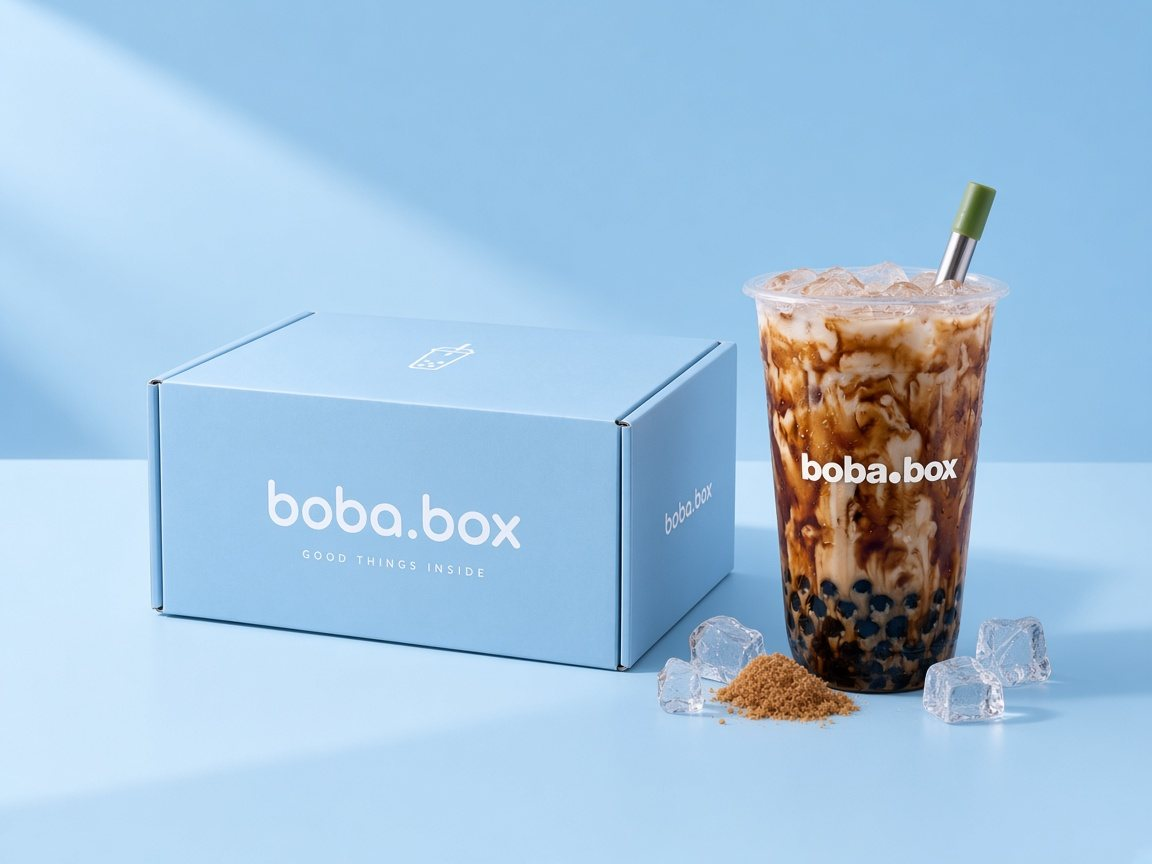
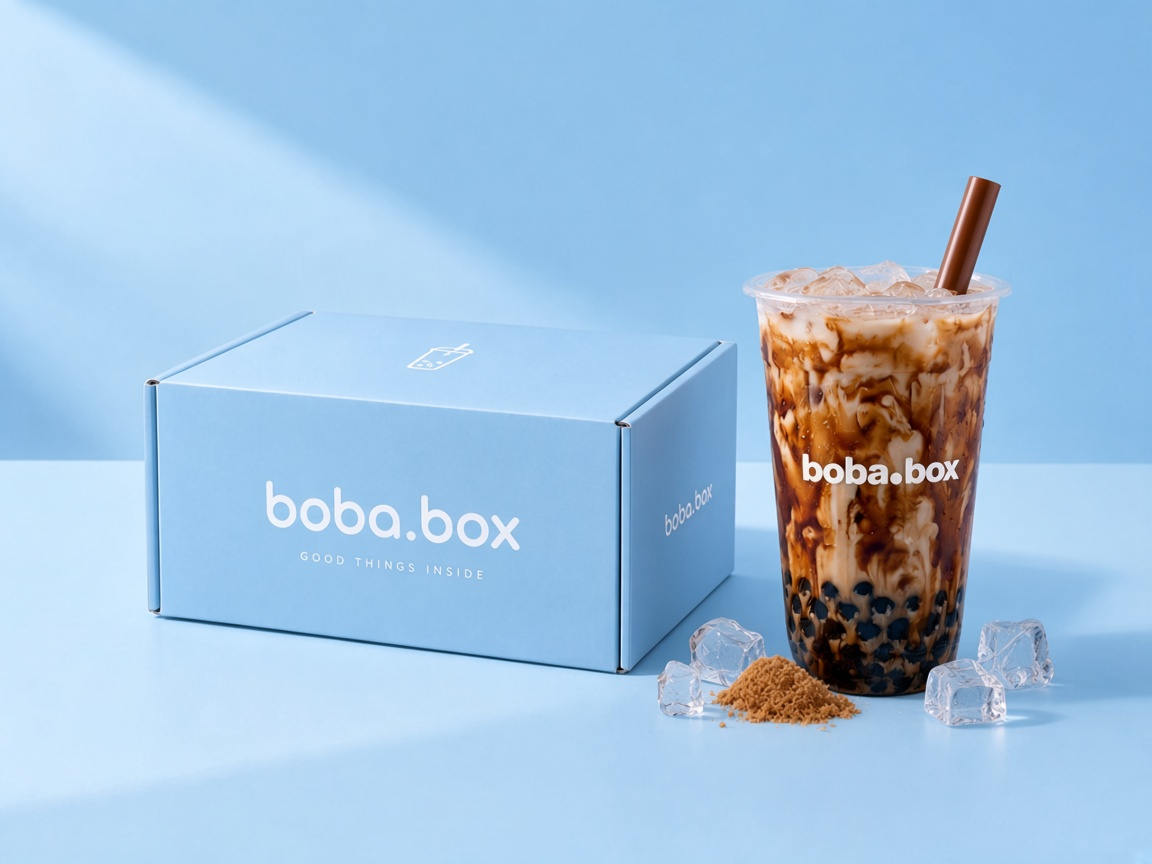
swap hero drink to brown straw and soften image edge fade

diff --git a/bobabox/src/App.css b/bobabox/src/App.css
@@ -102,8 +102,14 @@
   height: 100%;
   object-fit: cover;
   object-position: center 65%;
-  -webkit-mask-image: radial-gradient(ellipse 50% 50% at center, #000 55%, transparent 100%);
-  mask-image: radial-gradient(ellipse 50% 50% at center, #000 55%, transparent 100%);
+  -webkit-mask-image:
+    linear-gradient(to right, transparent, #000 18%, #000 92%, transparent),
+    linear-gradient(to bottom, transparent, #000 12%, #000 80%, transparent);
+  -webkit-mask-composite: source-in;
+  mask-image:
+    linear-gradient(to right, transparent, #000 18%, #000 92%, transparent),
+    linear-gradient(to bottom, transparent, #000 12%, #000 80%, transparent);
+  mask-composite: intersect;
 }
 
 .hero-bubble {
